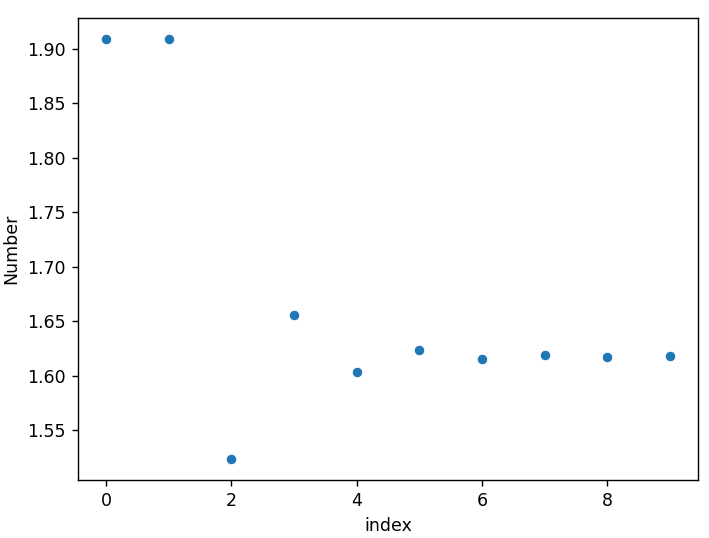
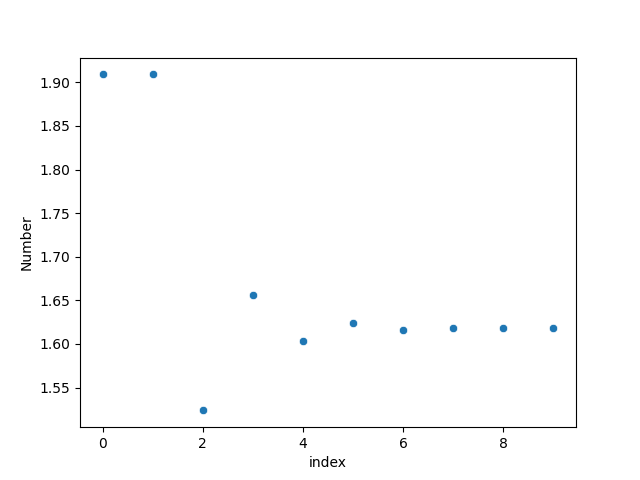
edit README.md

diff --git a/dungeon_numbers.py b/dungeon_numbers.py
@@ -142,6 +142,7 @@ df = pd.DataFrame(sequence, columns=["Number"])
 indices = [i for i in range(n)]
 df['index'] = indices
 sns.scatterplot(x="index", y="Number", data=df)
+plt.savefig("images/10.png")
 plt.show()
 
 onepointone = []
@@ -157,4 +158,5 @@ df = pd.DataFrame(sequence, columns=["Number"])
 indices = [i for i in range(n)]
 df['index'] = indices
 sns.scatterplot(x="index", y="Number", data=df)
+plt.savefig("images/50.png")
 plt.show()
